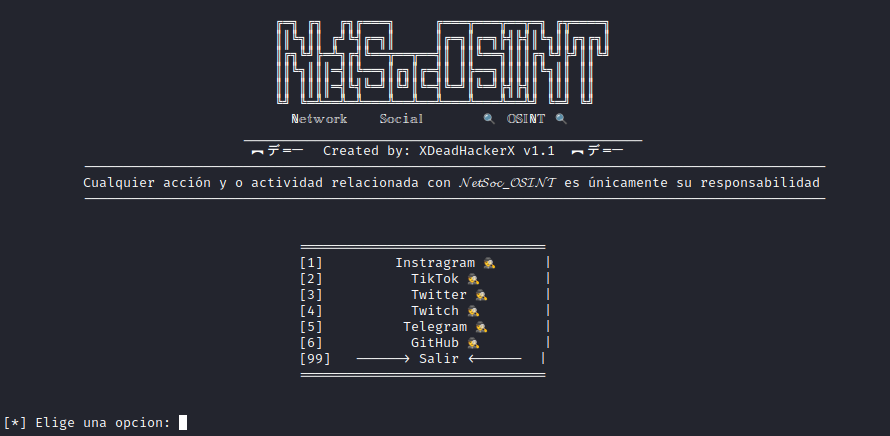
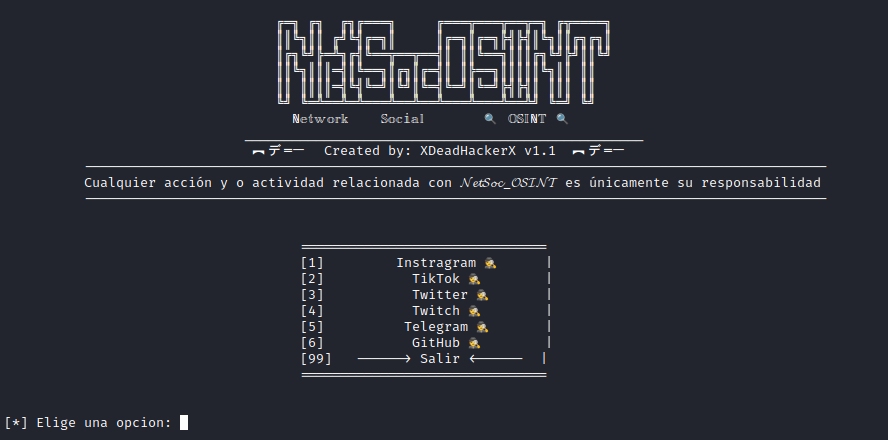
v1.1
Ahora puedes cambiar el idioma de español a inglés / Now you can change the language from Spanish to English.

Changed region(s): [[0.0912, 0.0298, 0.9426, 0.4771], [0.3345, 0.5367, 0.6385, 0.8647], [0.0, 0.9243, 0.2128, 0.9839]]

diff --git a/README.md b/README.md
@@ -4,7 +4,7 @@
 
 > Herramienta creada por XDeadHackerX
 
-[![Net-Soc-OSINT-1-1.png](https://i.postimg.cc/KcDyXYQ4/Net-Soc-OSINT-1-1.png)](https://postimg.cc/dD3frwbK)
+[![Net-Soc-OSINT-1-1-es.png](https://i.postimg.cc/rFXyLpBr/Net-Soc-OSINT-1-1-es.png)](https://postimg.cc/6TcxrB5W)
 
 ---
 
